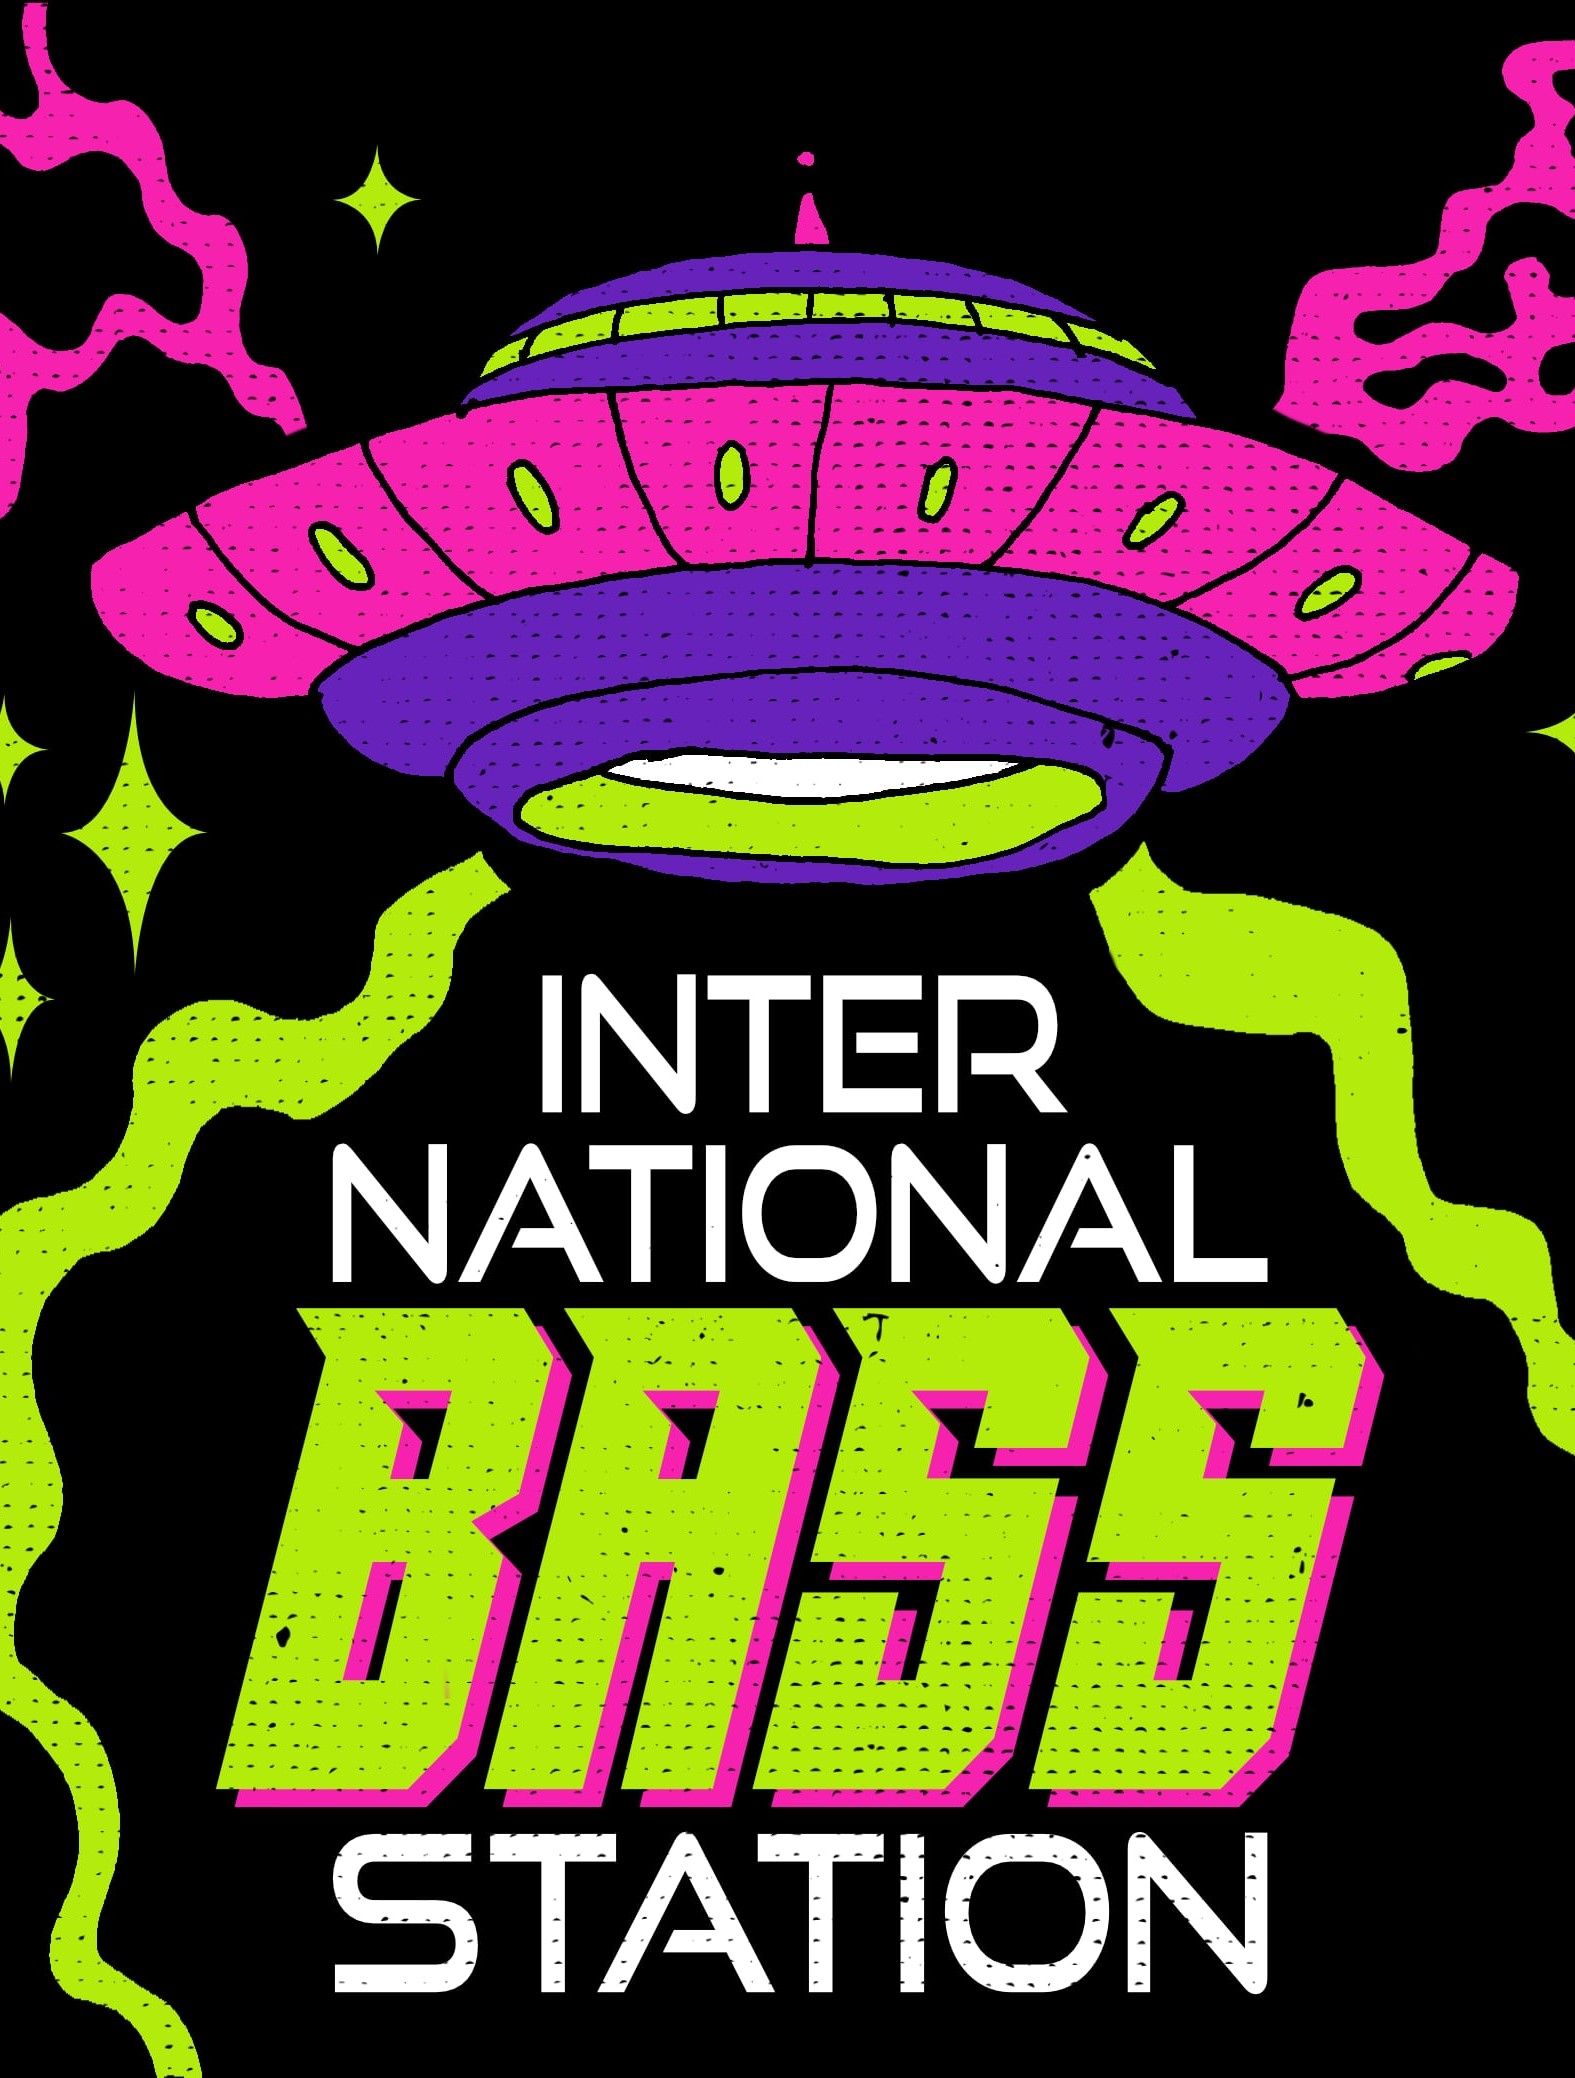
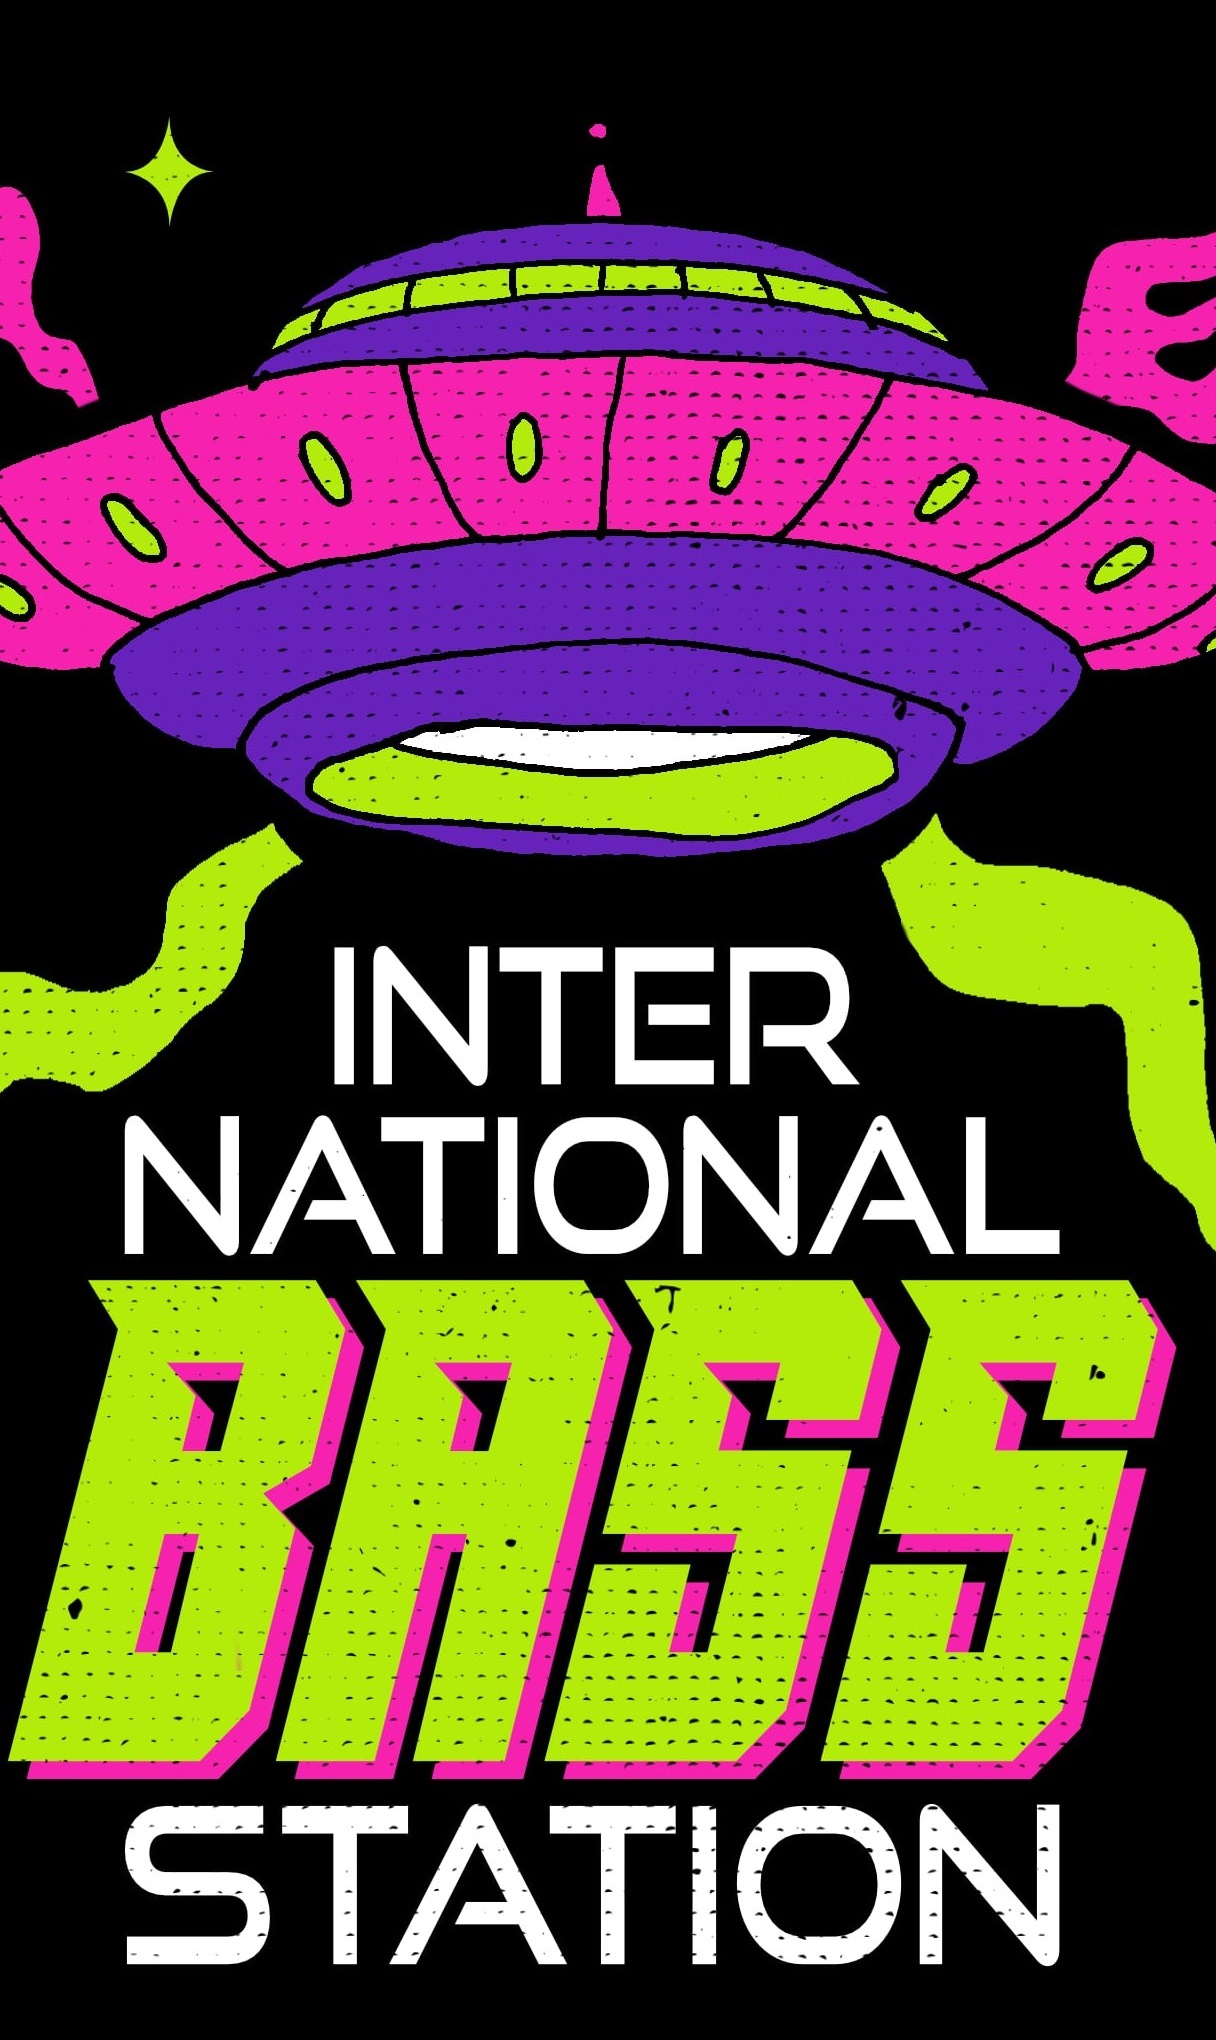
more logging and added PORTRAIT (mistakenly?)

diff --git a/script.js b/script.js
@@ -70,13 +70,50 @@ class SectionManager {
     initialize() {
         history.scrollRestoration = 'manual';
         window.scrollTo(0, 0);
- 
+
+        this.setupViewportLogging();
         this.setupNavigationListeners();
         this.setupInitialVisibility();
         this.setupAudioPlayer();
         this.setupCountdown();
         this.handleScroll = this.handleScroll.bind(this);
         window.addEventListener('scroll', this.handleScroll);
+    }
+
+    setupViewportLogging() {
+        const logViewportDetails = () => {
+            const viewportWidth = window.innerWidth;
+            const viewportHeight = window.innerHeight;
+            const documentWidth = document.documentElement.clientWidth;
+            const documentHeight = document.documentElement.clientHeight;
+            // Calculate rem size based on root font-size
+            const rootFontSize = parseFloat(getComputedStyle(document.documentElement).fontSize);
+            
+            console.group('🖥 Viewport Details');
+            console.log(`Width: ${viewportWidth}px (${(viewportWidth / rootFontSize).toFixed(2)}rem)`);
+            console.log(`Height: ${viewportHeight}px (${(viewportHeight / rootFontSize).toFixed(2)}rem)`);
+            console.log(`Document Width: ${documentWidth}px`);
+            console.log(`Document Height: ${documentHeight}px`);
+            console.log(`Root Font Size: ${rootFontSize}px`);
+            // Detect orientation
+            const orientation = viewportWidth > viewportHeight ? 'Landscape' : 'Portrait';
+            console.log(`Orientation: ${orientation}`);
+            // Aspect ratio
+            const aspectRatio = (viewportWidth / viewportHeight).toFixed(2);
+            console.log(`Aspect Ratio: ${aspectRatio}`);
+            
+            console.groupEnd();
+        };
+        // Log initial viewport details
+        logViewportDetails();
+        // Add event listeners to track changes
+        window.addEventListener('resize', () => {
+            logViewportDetails();
+        });
+        // Track orientation changes
+        window.addEventListener('orientationchange', () => {
+            logViewportDetails();
+        });
     }
  
     setupInitialVisibility() {

diff --git a/styles.css b/styles.css
@@ -368,7 +368,7 @@ body {
   50% { opacity: 1; }
 }
 /* MOBILE BROWSER CHANGES */
-@media (max-width: 768px) {
+@media (orientation: portrait) and (max-width: 768px) {
   .hero {
     background: url('assets/images/IBStall.jpg') center/contain no-repeat;
   }
